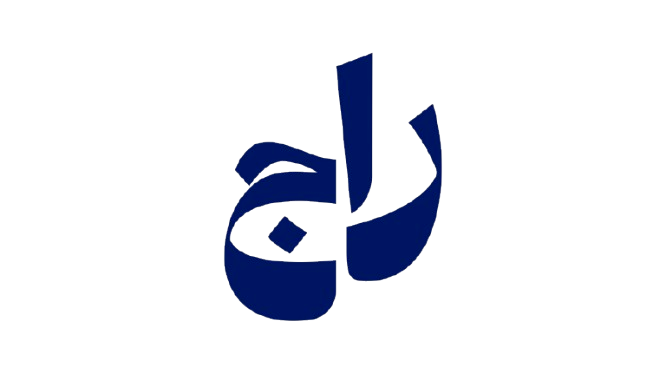
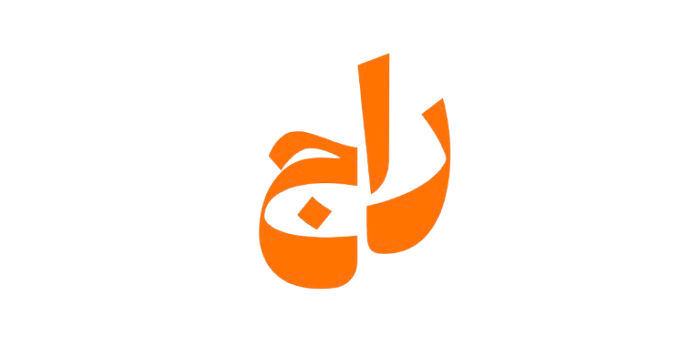
Update #2

Changed region(s): [[0.3303, 0.1236, 0.6607, 0.8652]]

diff --git a/src/index.css b/src/index.css
@@ -18,8 +18,8 @@
     --popover: 0 0% 100%;
     --popover-foreground: 0 0% 0%;
 
-    /* Dark Royal Blue Primary */
-    --primary: 218 100% 18%;
+    /* Rich Orange Primary */
+    --primary: 25 95% 53%;
     --primary-foreground: 0 0% 100%;
 
     /* Light sections */
@@ -29,7 +29,7 @@
     --muted: 0 0% 96%;
     --muted-foreground: 0 0% 45%;
 
-    --accent: 218 100% 18%;
+    --accent: 25 95% 53%;
     --accent-foreground: 0 0% 100%;
 
     --destructive: 0 84% 60%;
@@ -37,19 +37,19 @@
 
     --border: 0 0% 90%;
     --input: 0 0% 96%;
-    --ring: 218 100% 18%;
+    --ring: 25 95% 53%;
 
     /* Raj Custom Variables */
-    --raj-blue: 218 100% 18%;
-    --raj-blue-light: 218 50% 25%;
+    --raj-orange: 25 95% 53%;
+    --raj-orange-light: 25 85% 60%;
     --raj-gray-light: 0 0% 96%;
     
     /* Gradients */
-    --gradient-primary: linear-gradient(135deg, hsl(218 100% 18%), hsl(218 50% 25%));
-    --gradient-overlay: linear-gradient(rgba(0, 31, 92, 0.7), rgba(0, 31, 92, 0.5));
+    --gradient-primary: linear-gradient(135deg, hsl(25 95% 53%), hsl(25 85% 60%));
+    --gradient-overlay: linear-gradient(rgba(255, 140, 0, 0.7), rgba(255, 140, 0, 0.5));
     
     /* Shadows */
-    --shadow-luxury: 0 20px 60px -10px hsl(218 100% 18% / 0.3);
+    --shadow-luxury: 0 20px 60px -10px hsl(25 95% 53% / 0.3);
     --shadow-card: 0 10px 30px -5px hsl(0 0% 0% / 0.1);
     
     /* Animations */

diff --git a/src/pages/NotFound.tsx b/src/pages/NotFound.tsx
@@ -16,7 +16,7 @@ const NotFound = () => {
       <div className="text-center">
         <h1 className="text-4xl font-bold mb-4">404</h1>
         <p className="text-xl text-gray-600 mb-4">Oops! Page not found</p>
-        <a href="/" className="text-blue-500 hover:text-blue-700 underline">
+        <a href="/" className="text-primary hover:text-primary/80 underline">
           Return to Home
         </a>
       </div>

diff --git a/tailwind.config.ts b/tailwind.config.ts
@@ -66,8 +66,8 @@ export default {
 					border: 'hsl(var(--sidebar-border))',
 					ring: 'hsl(var(--sidebar-ring))'
 				},
-				'raj-blue': 'hsl(var(--raj-blue))',
-				'raj-blue-light': 'hsl(var(--raj-blue-light))',
+				'raj-orange': 'hsl(var(--raj-orange))',
+				'raj-orange-light': 'hsl(var(--raj-orange-light))',
 				'raj-gray-light': 'hsl(var(--raj-gray-light))'
 			},
 			borderRadius: {

diff --git a/src/components/Header.tsx b/src/components/Header.tsx
@@ -33,7 +33,7 @@ const Header = ({ lang, onLanguageChange }: HeaderProps) => {
             <img 
               src="/lovable-uploads/7ecb9e27-98c5-4bbb-8682-f4a788b68fc4.png" 
               alt="Raj Logo" 
-              className="h-12 w-auto"
+              className="h-20 w-auto"
             />
           </div>
 
